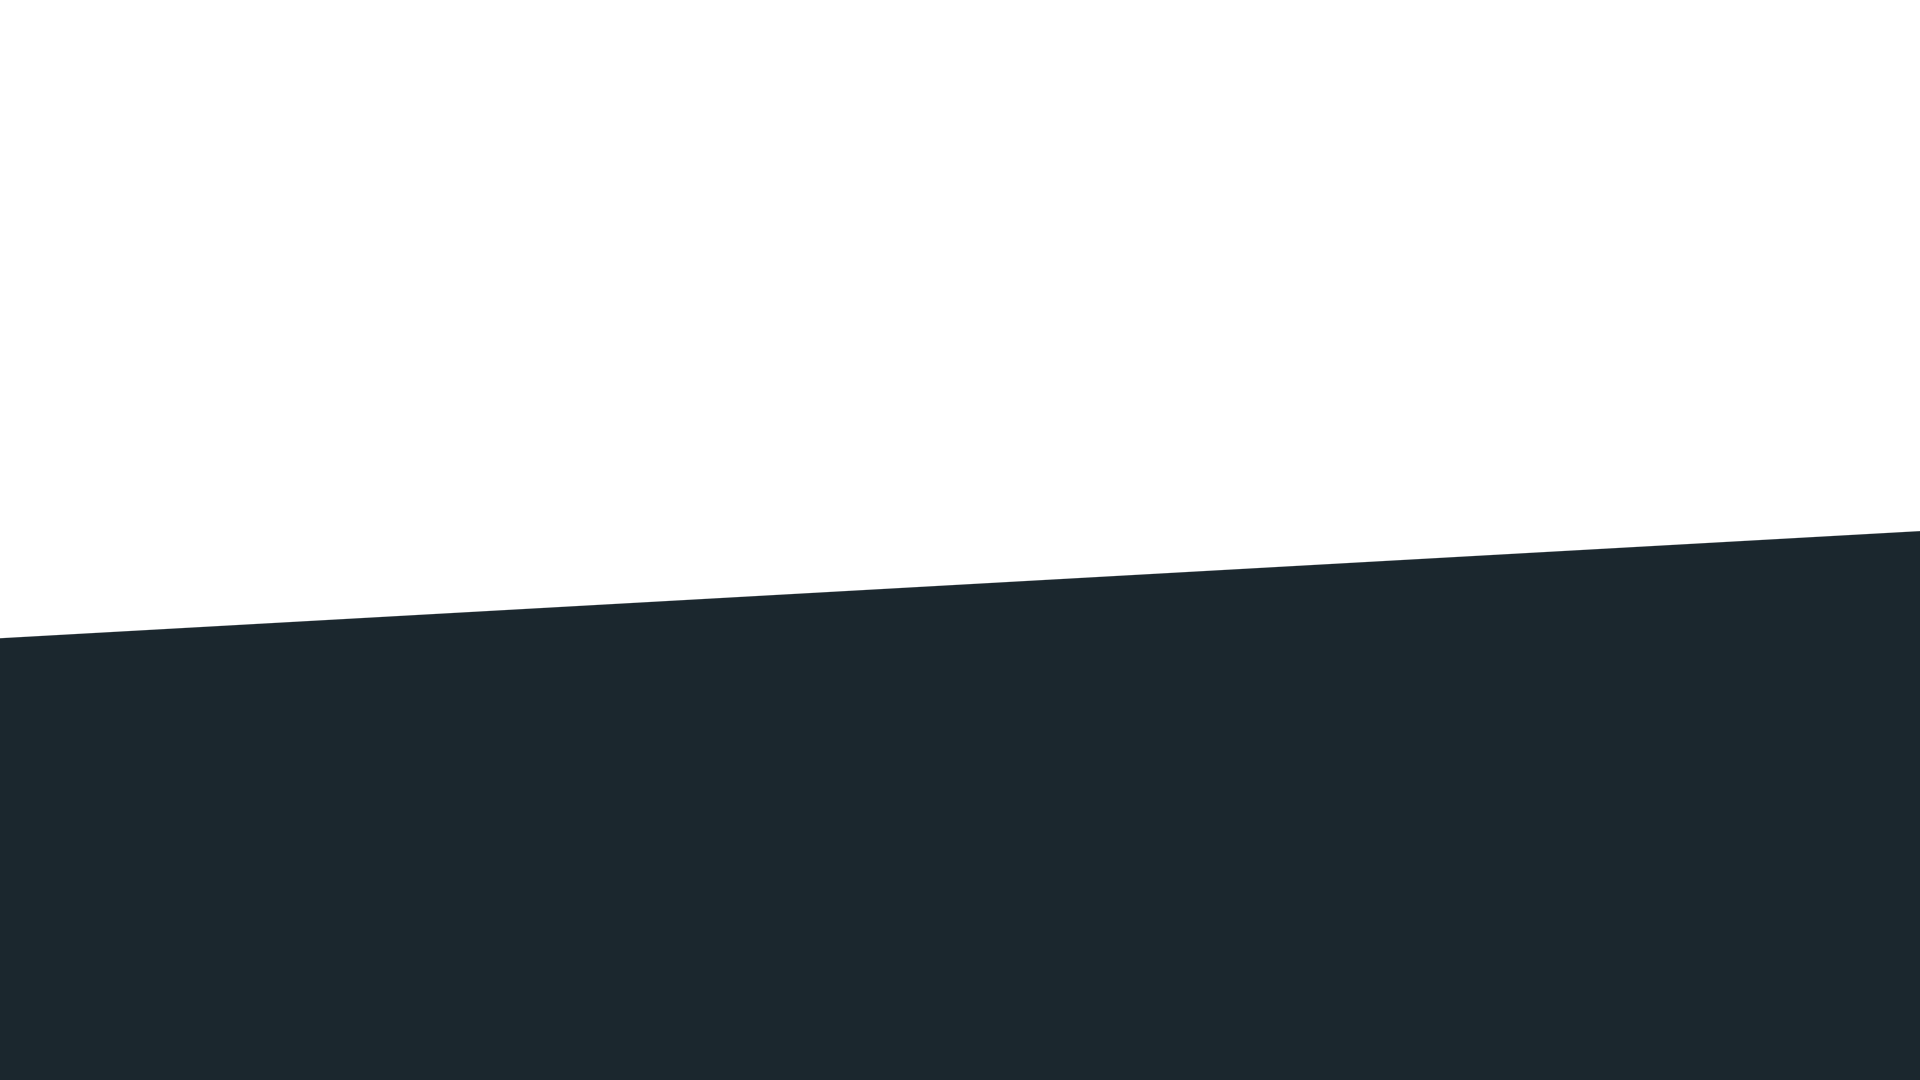
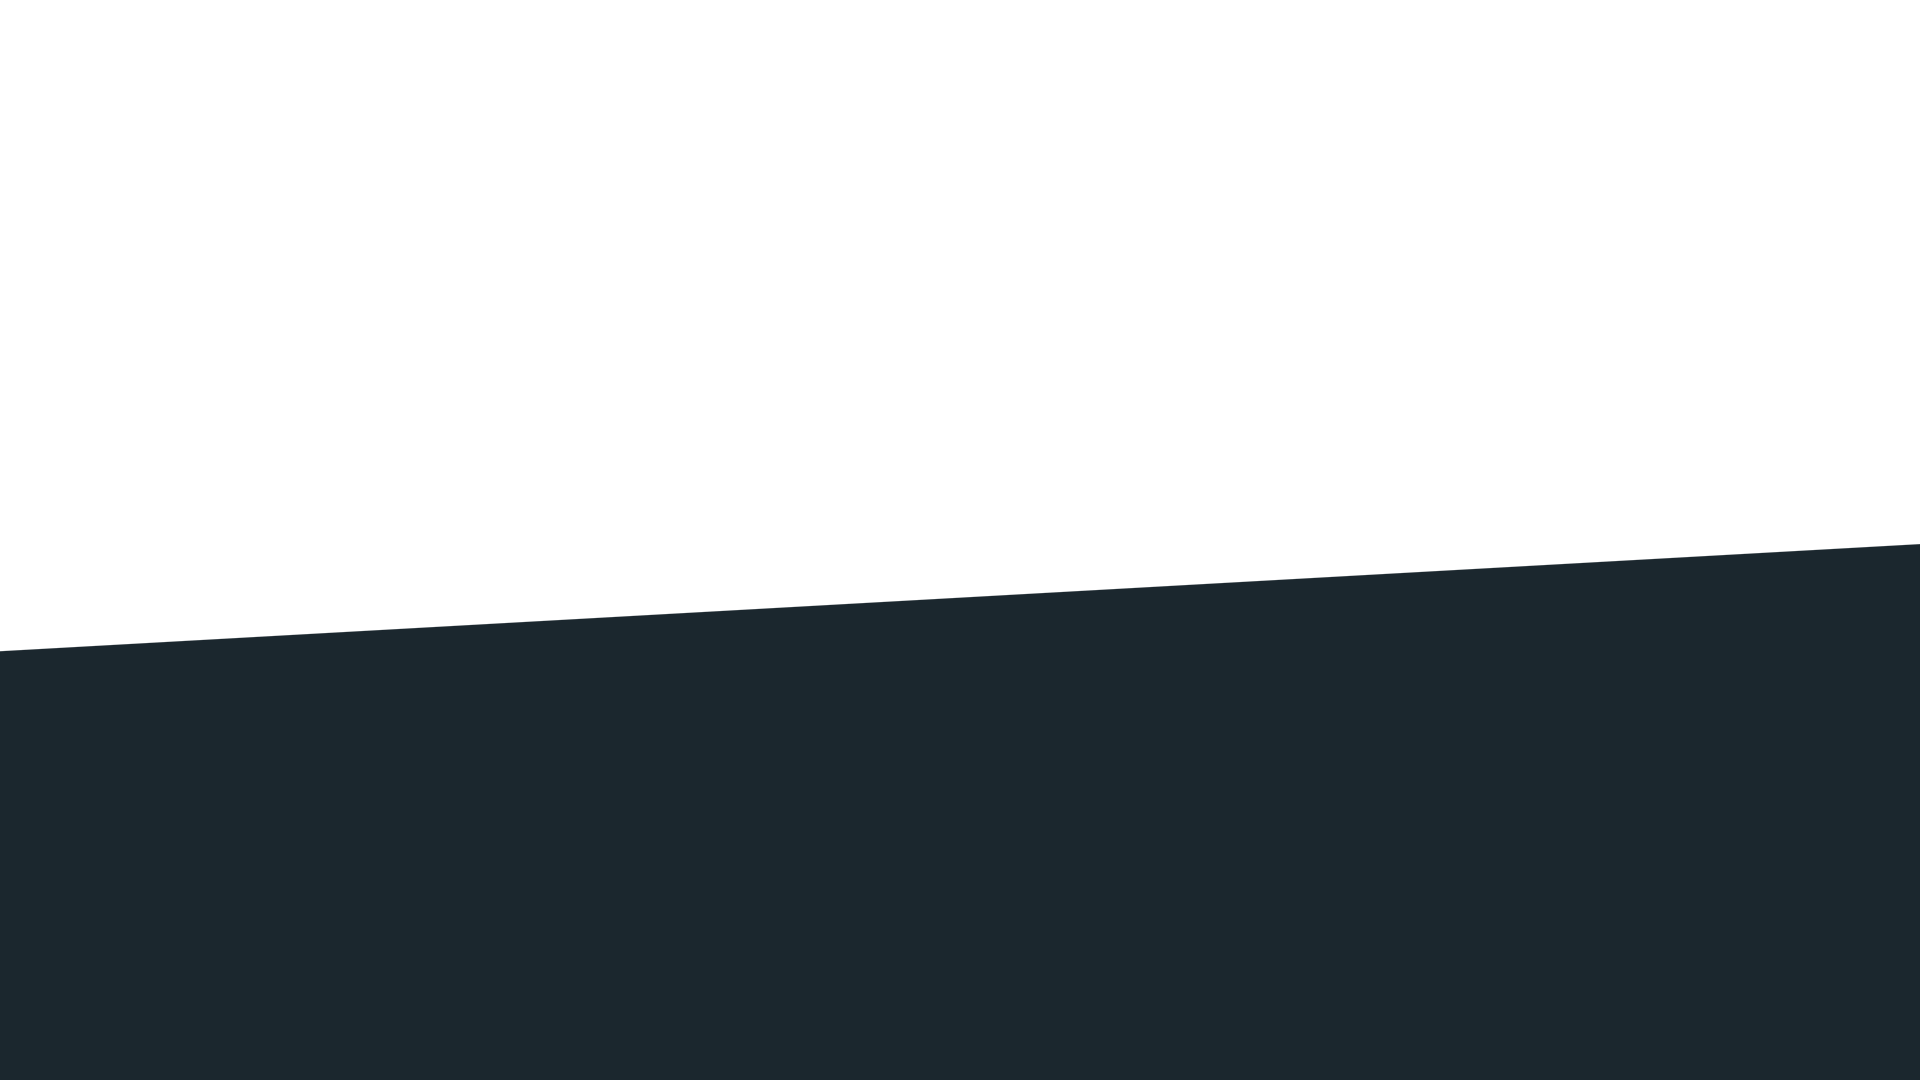
thank you page spacing fixed

Changed region(s): [[0.0, 0.4889, 1.0, 0.6111]]

diff --git a/ThankYou.html b/ThankYou.html
@@ -2,9 +2,11 @@
 <html lang="en">
 <head>
     <title>Thank You</title>
-    <link rel="stylesheet" type="text/css" href="css/preloader.css" />
-    <link href="https://fonts.googleapis.com/css2?family=Montserrat:wght@500;600;700&display=swap" rel="stylesheet">
-    <link href="https://fonts.googleapis.com/css2?family=Montserrat:ital,wght@1,900&display=swap" rel="stylesheet">
+    <link
+        href="https://fonts.googleapis.com/css2?family=Montserrat:ital,wght@0,500;0,600;0,700;1,500;1,600;1,900&display=swap"
+        rel="stylesheet">
+    <link rel="stylesheet" media="mediatype and|not|only (expressions)" href="print.css">
+
     <style>
         .thank-you-message{
             position: relative;
@@ -16,11 +18,10 @@
             justify-content: center;
             align-items: center;
             flex-direction: column;
-            padding: 5em;
+            
         }
         @media only screen and (max-width:600px){
-            .thank-you-message{
-                padding: 2em;
+            .thank-you-message{ 
                 font-size: 1.2em;
             }
         }
@@ -47,6 +48,15 @@
         .weight{
             font-weight: 900;
         }
+        .thank
+        {
+            margin-top:18vh ;
+        }
+        .cong
+        {
+            margin-bottom: 10vh;
+        }
+        
     </style>
 
 </head>
@@ -54,23 +64,20 @@
     
     <div class="thank-you-section">
         <div class="thank-you-message">
-            <h2 class="weight" style="color:black; font-size:3em ;font-weight:900;font-family: 'Montserrat', sans-serif;">Congratulations!!! </h2><br>
-            <h2 style="color:rgb(134, 184, 181);">You Have Successfully Completed The Aptitude Test.</h2>
+            <div class="cong">
+            <h2 class="weight" style="color:black; font-size:3em ;font-weight:900;font-family: 'Montserrat', sans-serif;font-style: italic;">Congratulations!!! </h2><br>
+            <h2 style="color:rgb(122, 171, 168);">You Have Successfully Completed The Aptitude Test.</h2>
             <br><h2 style="font-size:1em;color: black;">Your results will be updated to you soon.</h2>
-            <br>
-            <br>
-            <br>
-            <br>
-            <br>
-            <br>
-            <br>
-            <br>
+            </div>
+            
+            <div class="thank">
             <h4 style="color: white;">Follow Us:</h4>
             <ul>
                 <li><a href="https://www.instagram.com/edc_tiet/"><img src="images/instagram.png"></a></li>
                 <li><a href="https://www.facebook.com/edctiet/"><img src="images/facebook.png"></a></li>
                 <li><a href="https://www.linkedin.com/school/entrepreneurship-development-cell-thapar-university/"><img src="images/linkedin1.png"></a></li>
             </ul>
+            </div>
         </div>
     </div>
     <div class="loader-wrapper">
